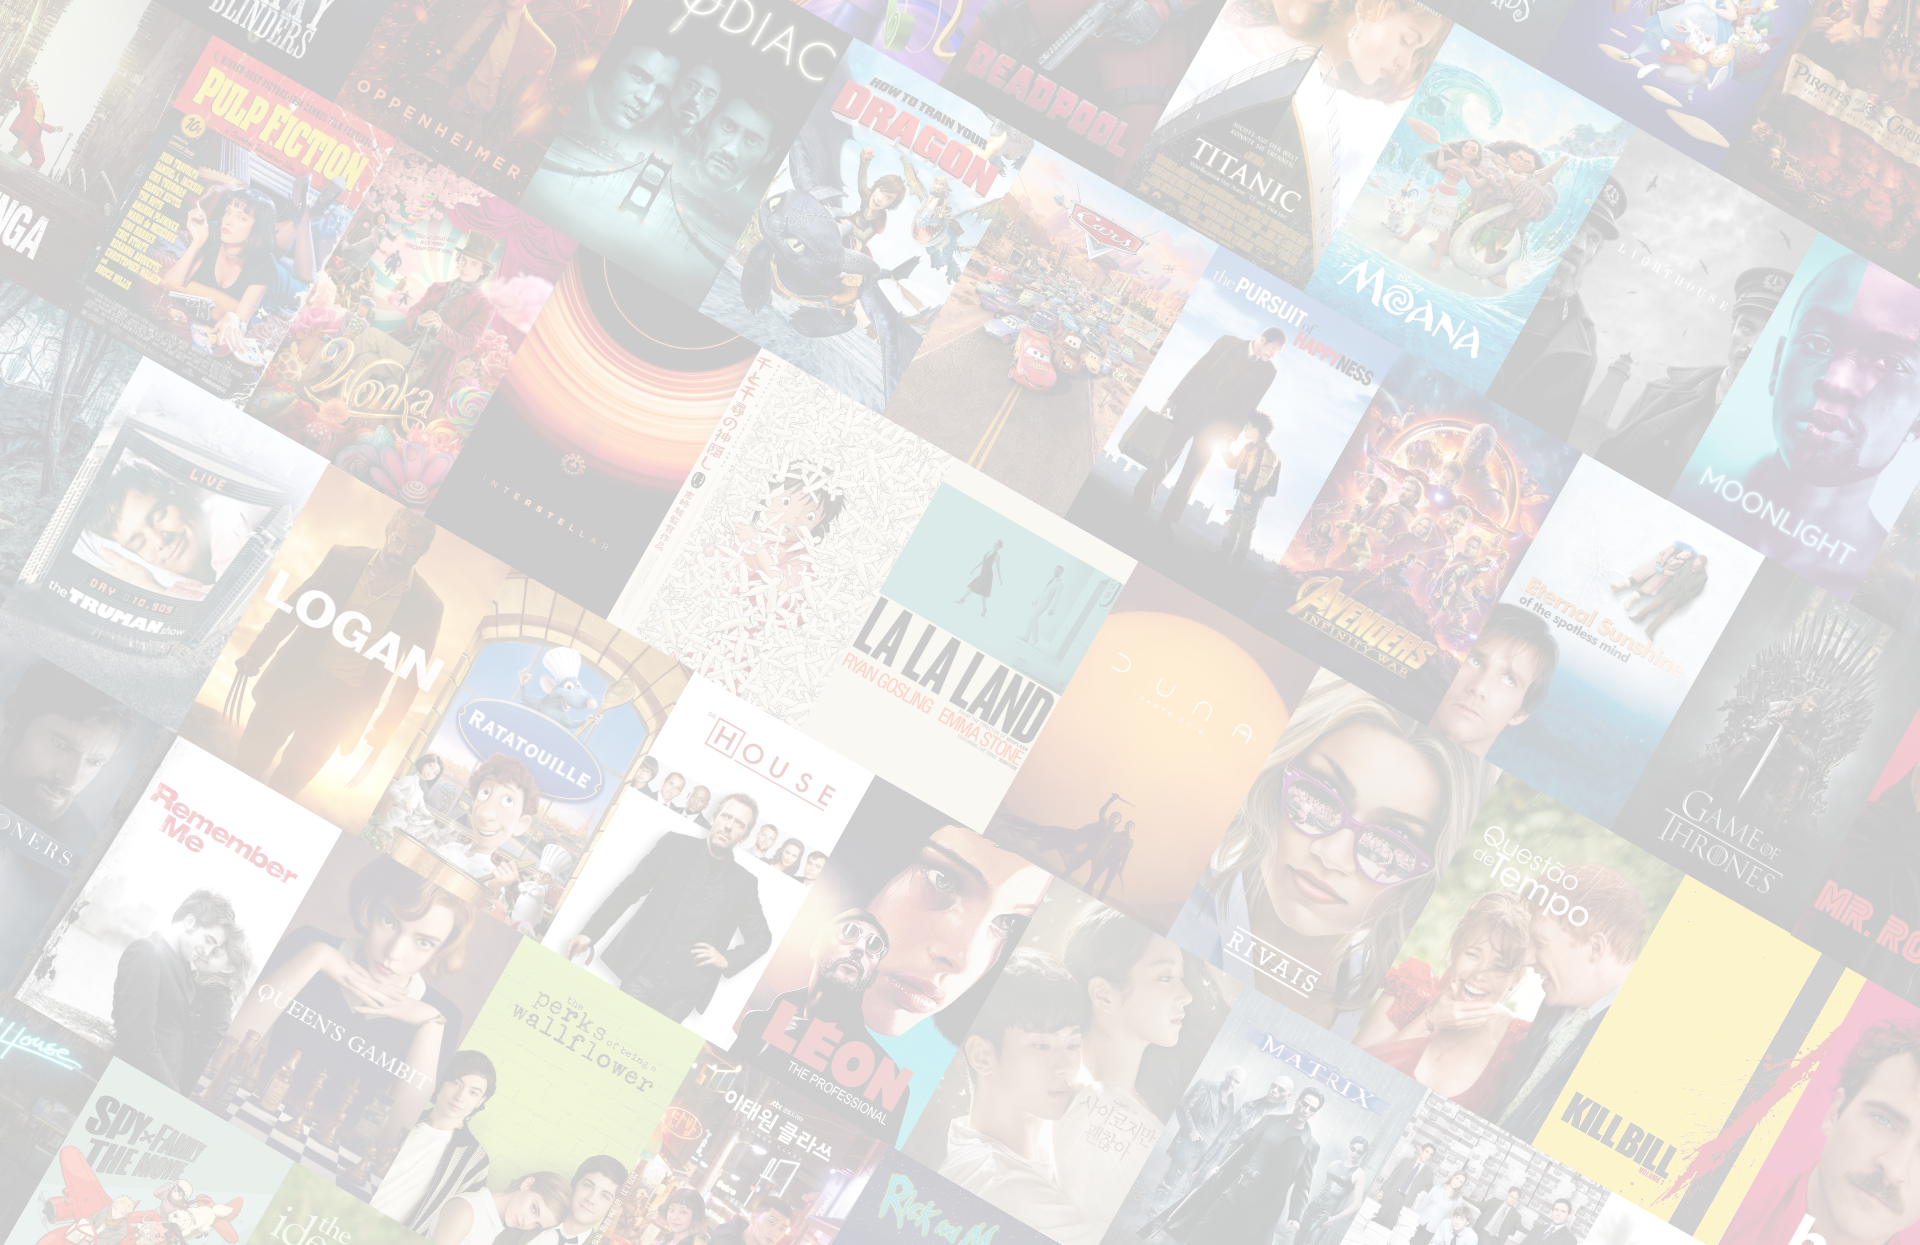
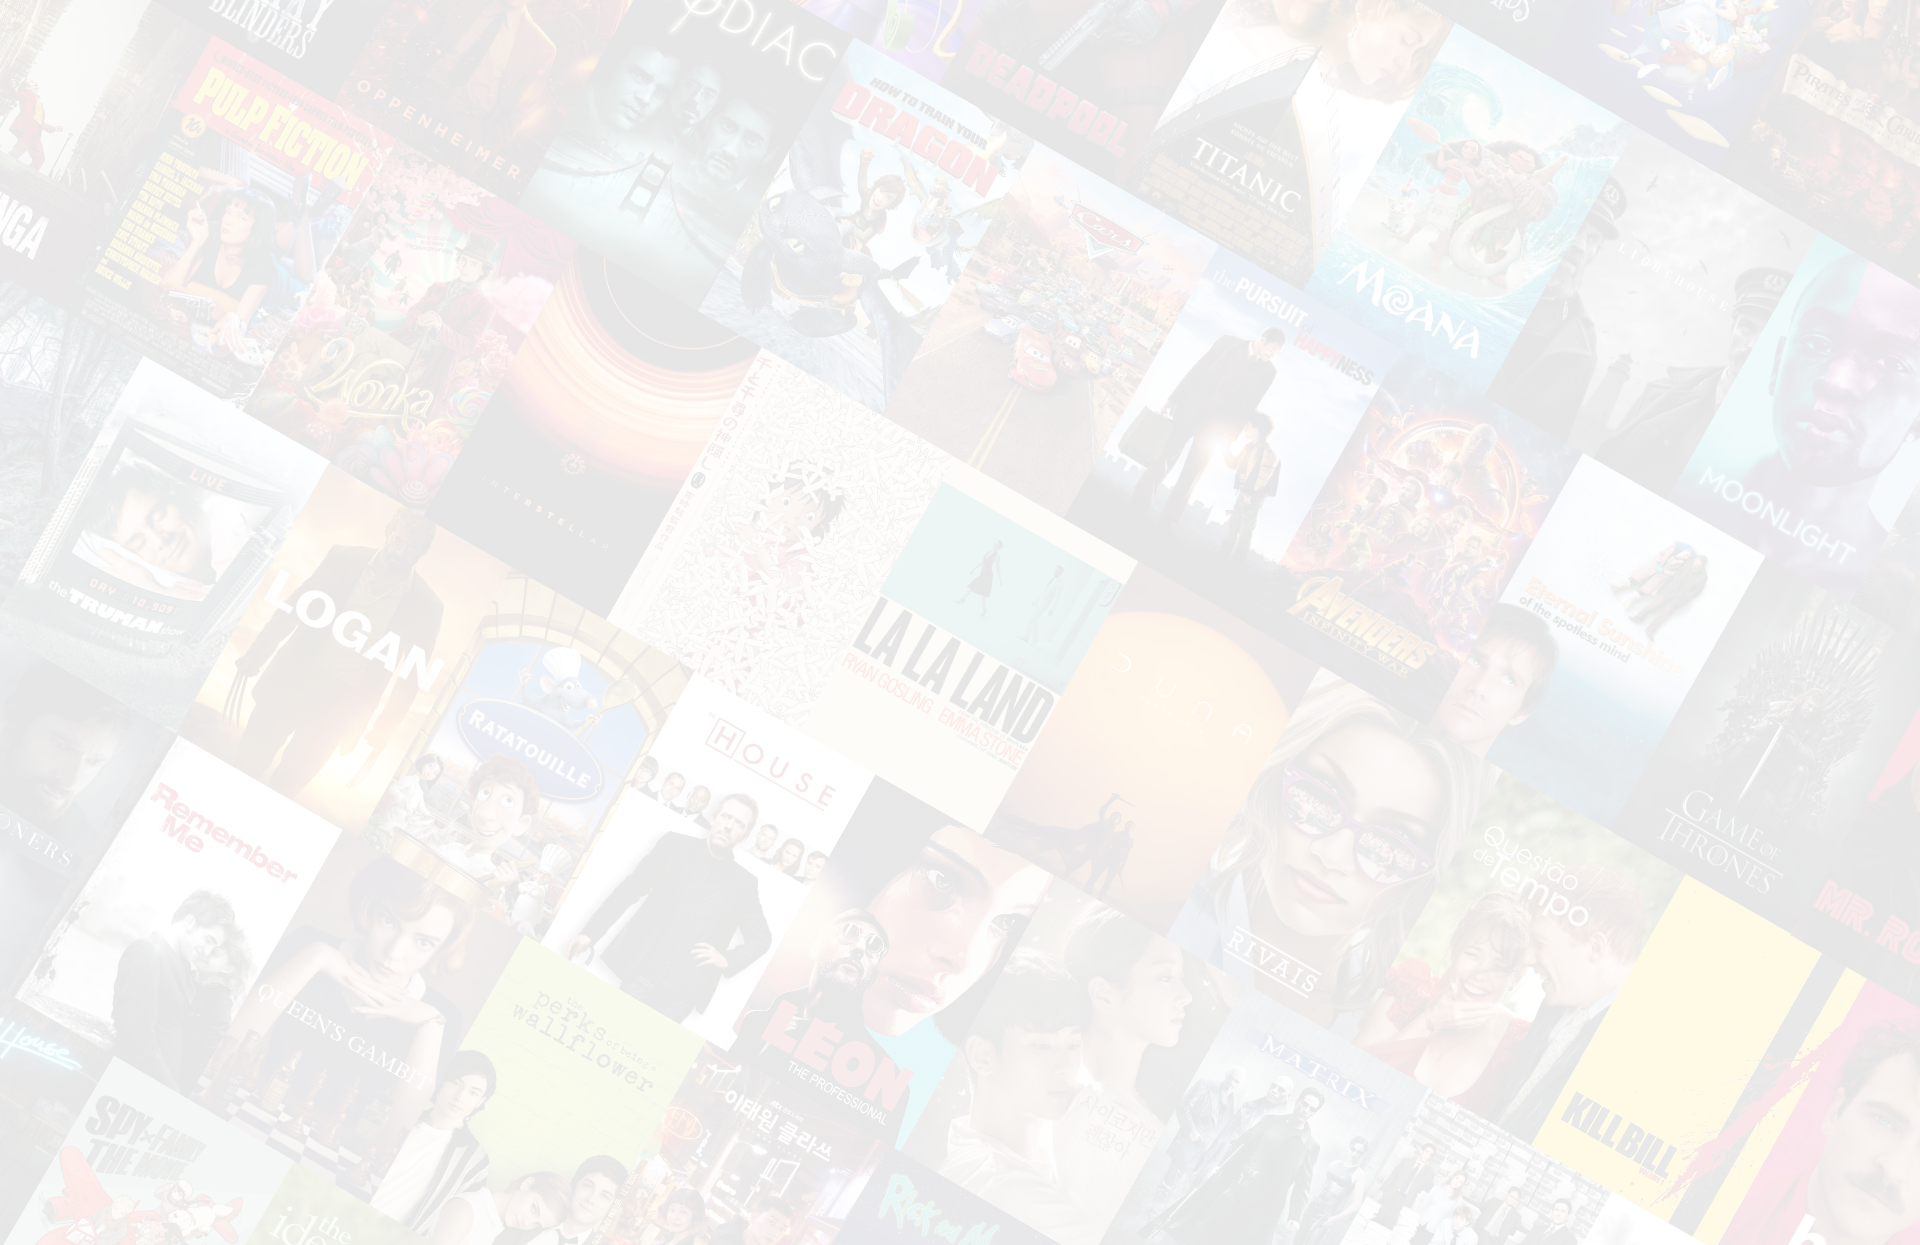
style: alterando o background image e padding de elementos

diff --git a/src/components/InfosPage/TvAndMovieInfos.tsx b/src/components/InfosPage/TvAndMovieInfos.tsx
@@ -85,7 +85,7 @@ const TvAndMovieInfos = ({
           </p>
           <div className="flex items-center self-start text-3xl pt-8 gap-6 xl:text-2xl">
             <span
-              className={`border-2 ${setVoteAverageColor(vote_average)} rounded-full p-4 lg:py-6 lg:px-4 xl:py-4 xl:px-2`}
+              className={`border-2 ${setVoteAverageColor(vote_average)} rounded-full py-6 px-4`}
             >
               {vote_average}%
             </span>
@@ -191,7 +191,7 @@ const TvAndMovieInfos = ({
         </div>
         <Link
           to={'/'}
-          className="block text-lg font-bold px-8 pt-4 hover:text-white transition-colors duration-150 md:justify-start lg:px-0"
+          className="block text-lg font-bold pt-4 hover:text-white transition-colors duration-150 md:justify-start"
         >
           Ver mais →
         </Link>

diff --git a/src/components/Footer.tsx b/src/components/Footer.tsx
@@ -3,9 +3,9 @@ import up from '../assets/icons/dedo-indicador.png'
 
 const Footer = () => {
   return (
-    <footer className="relative pt-28 px-8 pb-14 xl:ps-40">
-      <div className="max-w-618 xl:ps-14 ">
-        <p className="text-black text-sm font-bold  mb-1  ">
+    <footer className="relative pt-28 pb-14 xl:ps-40 ">
+      <div className="max-w-618 px-8 ">
+        <p className="text-black text-sm font-bold mb-1">
           A Treads é um site para ficar por dentro das tendências do cinema,
           sendo as séries do momento, filmes ou atores/atrizes.
         </p>

diff --git a/src/App.tsx b/src/App.tsx
@@ -12,7 +12,7 @@ function App() {
       <BrowserRouter>
         <NavBar />
         <AppRoute />
-        <div className="-z-10 w-full h-full fixed top-0 left-0 bg-body"></div>
+        <div className="-z-10 w-full h-full fixed top-0 left-0 bg-body2"></div>
         <Footer />
       </BrowserRouter>
     </Provider>
